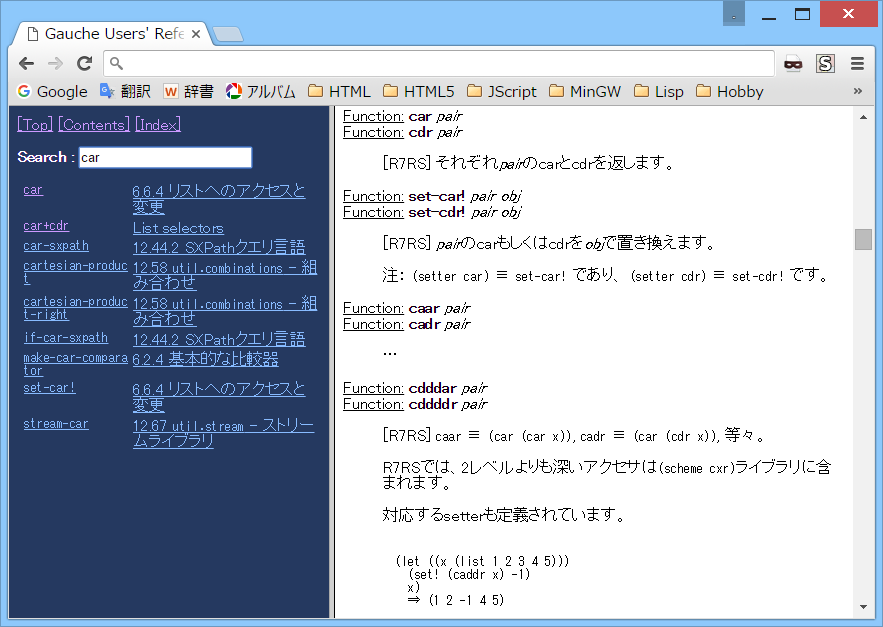
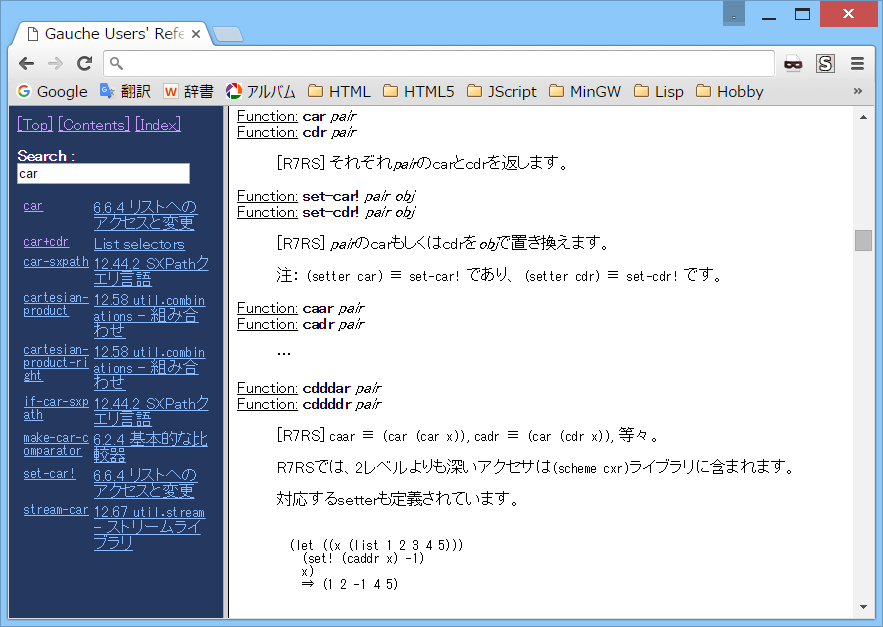
src chg v1.10

diff --git a/README.md b/README.md
@@ -110,6 +110,7 @@
 - 2016-2-19  v1.07 索引抽出処理見直し
 - 2016-2-19  v1.08 検索処理の不要行削除等
 - 2016-2-19  v1.09 検索結果の余白調整
+- 2016-2-19  v1.10 HTMLのフレーム設定修正
 
 
 (2016-2-19)
